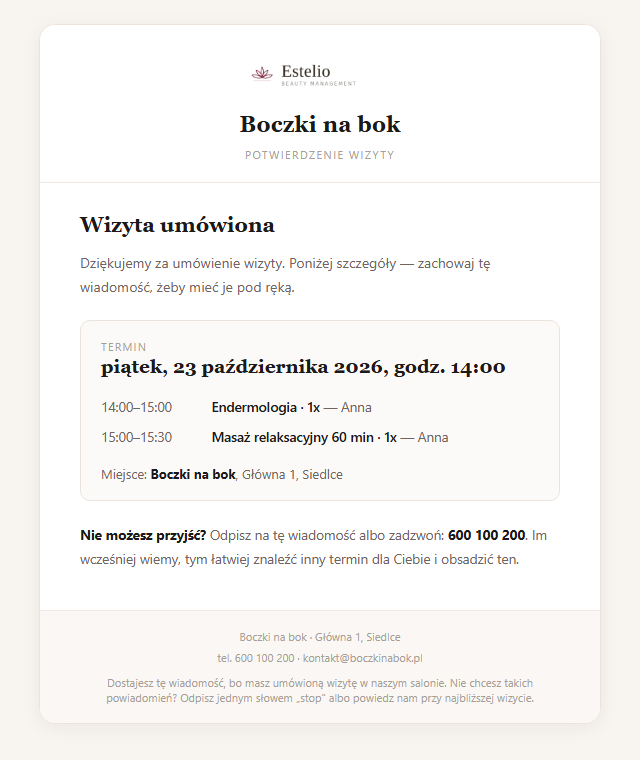
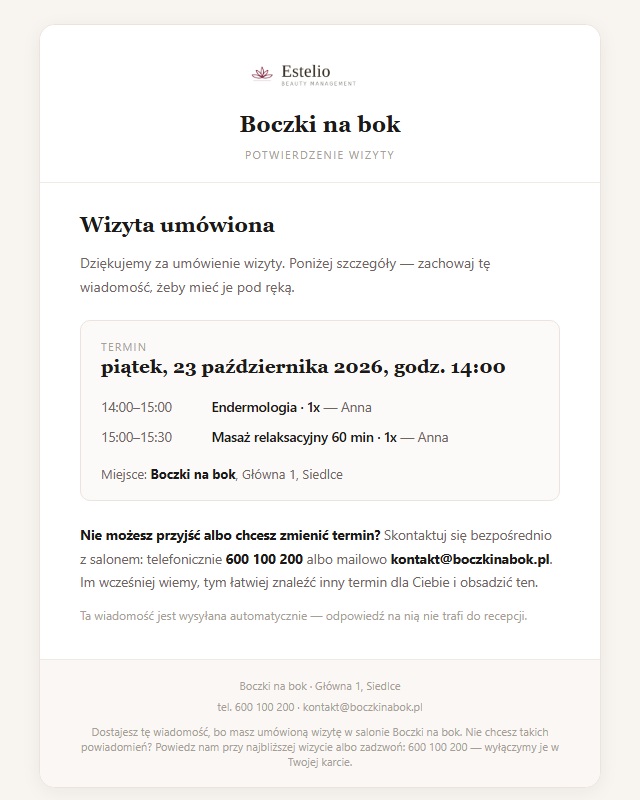
fix(maile): mail do klientki nie obiecuje juz rzeczy, ktorych nie umiemy dotrzymac
Wlasciciel zarezerwowal wizyte sam sobie i wychwycil dwa zdania:

1. „Nie mozesz przyjsc? Odpisz na te wiadomosc." — wiadomosc wychodzi z naszej
   skrzynki technicznej, wiec odpowiedz klientki trafia do kontakt@estelio.com.pl
   albo na adres wlasciciela z licencji, a NIE do recepcji, ktora ma zwolnic termin.
2. „Nie chcesz takich powiadomien? Odpisz jednym slowem »stop«." — nieprawda:
   nic w systemie nie czyta poczty przychodzacej, rezygnacje zaznacza salon
   w karcie klientki (Klienci.bez_maili).

Teraz: „Skontaktuj sie bezposrednio z salonem: telefonicznie … albo mailowo …"
(dane z Ustawienia → Profil salonu), jawne zdanie „ta wiadomosc jest wysylana
automatycznie — odpowiedz na nia nie trafi do recepcji", a w stopce rezygnacja
przez recepcje. Salon bez kontaktu w licencji = zadnej drogi nie wymyslamy.

Dwie proby pilnuja, zeby oba zdania nie wrocily. Zrzuty w przewodniku /pomoc-maile
odtworzone po zmianie. Pelny zestaw: 753/753.

diff --git a/routes/mailer.js b/routes/mailer.js
@@ -744,7 +744,8 @@ module.exports = { wyslijLinkRejestracji, powiadomAdmina, wyslijResetHasla, wysl
 // ale nadawcą i podpisem jest SALON, nie Estelio: klientka salonu nie zna naszej marki,
 // a wiadomość od nieznanego nadawcy ląduje w spamie albo w koszu.
 //   • nadawca:  „Boczki na bok" <kontakt@estelio.com.pl>   (nazwa salonu, adres techniczny nasz)
-//   • odpowiedz: adres salonu z licencji — żeby odpowiedź klientki trafiła tam, gdzie ktoś ją przeczyta
+//   • odpowiedz: adres salonu z licencji, a gdy go nie ma — nasza skrzynka kontaktowa (odpowiedź nie
+//     przepada, ale TRAFIA DO NAS, nie do recepcji; dlatego treść nigdy nie każe klientce odpisywać)
 //   • stopka:   nazwa, adres i telefon salonu + zdanie o rezygnacji
 const DNI_TYG = ['niedziela', 'poniedziałek', 'wtorek', 'środa', 'czwartek', 'piątek', 'sobota'];
 const MIESIACE_PL = ['stycznia', 'lutego', 'marca', 'kwietnia', 'maja', 'czerwca', 'lipca', 'sierpnia', 'września', 'października', 'listopada', 'grudnia'];
@@ -775,6 +776,15 @@ function zbudujMailWizyty({ salon, wizyta, typ }) {
     : `Dziękujemy za umówienie wizyty. Poniżej szczegóły — zachowaj tę wiadomość, żeby mieć je pod ręką.`;
 
   const kontakt = [s.telefon ? `tel. ${s.telefon}` : null, s.email ? s.email : null].filter(Boolean).join(' · ');
+  // 21.10.2026 — poprawka po uwadze właściciela. Wcześniej pisaliśmy „nie możesz przyjść? odpisz na tę
+  // wiadomość". To wprowadzało w błąd: wiadomość wychodzi z NASZEJ skrzynki technicznej, więc odpowiedź
+  // klientki ląduje w kontakt@estelio.com.pl (albo w skrzynce właściciela z licencji), a nie u recepcji,
+  // która za chwilę ma zwolnić termin. Podajemy więc wprost drogę do salonu i mówimy, że mail jest
+  // automatyczny. Gdy salon nie uzupełnił kontaktu w „Ustawienia → Profil salonu", nie obiecujemy nic.
+  const drogiKontaktu = [
+    s.telefon ? `telefonicznie <b style="color:#1c1a18;">${s.telefon}</b>` : null,
+    s.email ? `mailowo <b style="color:#1c1a18;">${s.email}</b>` : null,
+  ].filter(Boolean).join(' albo ');
 
   const tresc = `
       <h2 style="margin:0 0 14px; font-size:21px; color:#1c1a18; font-weight:600; font-family:Georgia,'Times New Roman',serif;">${naglowek}</h2>
@@ -790,15 +800,16 @@ function zbudujMailWizyty({ salon, wizyta, typ }) {
       </table>
 
       <p style="margin:0 0 6px; font-size:13.5px; color:#6f655e; line-height:1.75;">
-        <b style="color:#1c1a18;">Nie możesz przyjść?</b> Odpisz na tę wiadomość${s.telefon ? ` albo zadzwoń: <b style="color:#1c1a18;">${s.telefon}</b>` : ''}.
+        <b style="color:#1c1a18;">Nie możesz przyjść albo chcesz zmienić termin?</b> Skontaktuj się bezpośrednio z salonem${drogiKontaktu ? ': ' + drogiKontaktu : ''}.
         Im wcześniej wiemy, tym łatwiej znaleźć inny termin dla Ciebie i obsadzić ten.
-      </p>`;
+      </p>
+      <p style="margin:12px 0 0; font-size:12px; color:#a89e96; line-height:1.6;">Ta wiadomość jest wysyłana automatycznie — odpowiedź na nią nie trafi do recepcji.</p>`;
 
   const stopka = `
       <p style="font-size:11px; color:#a89e96; margin:0;">${nazwaSalonu}${s.adres ? ' · ' + s.adres : ''}</p>
       ${kontakt ? `<p style="font-size:11px; color:#a89e96; margin:6px 0 0;">${kontakt}</p>` : ''}
-      <p style="font-size:11px; color:#a89e96; margin:10px 0 0;">Dostajesz tę wiadomość, bo masz umówioną wizytę w naszym salonie.
-        Nie chcesz takich powiadomień? Odpisz jednym słowem „stop" albo powiedz nam przy najbliższej wizycie.</p>`;
+      <p style="font-size:11px; color:#a89e96; margin:10px 0 0;">Dostajesz tę wiadomość, bo masz umówioną wizytę w salonie ${nazwaSalonu}.
+        Nie chcesz takich powiadomień? Powiedz nam przy najbliższej wizycie${s.telefon ? ` albo zadzwoń: ${s.telefon}` : ''} — wyłączymy je w Twojej karcie.</p>`;
 
   return emailWrapperJasnySalon(nazwaSalonu, przypomnienie ? 'Przypomnienie o wizycie' : 'Potwierdzenie wizyty', tresc, stopka);
 }

diff --git a/tests/maile-wizyt.test.js b/tests/maile-wizyt.test.js
@@ -242,6 +242,31 @@ describe('treść wiadomości', () => {
     }
   });
 
+  // Dwie obietnice, których nie umiemy dotrzymać (uwaga właściciela 21.10.2026):
+  //  • „odpisz na tę wiadomość" — odpowiedź nie trafia do recepcji, tylko do nas albo do właściciela,
+  //  • „odpisz »stop«" — nikt nie czyta przychodzącej poczty, rezygnację zaznacza salon w karcie klientki.
+  // Tych zdań nie wolno przywrócić, dlatego mają własną próbę.
+  test('nie obiecuje, że odpowiedź na maila cokolwiek załatwi', () => {
+    for (const typ of ['potwierdzenie', 'przypomnienie']) {
+      const html = mailer.zbudujMailWizyty({ salon, wizyta, typ });
+      expect(html).not.toMatch(/Odpisz na tę wiadomość/i);
+      expect(html).not.toMatch(/odpisz[^<]{0,40}stop/i);
+      expect(html).toMatch(/wysyłana automatycznie/i);
+      expect(html).toMatch(/nie trafi do recepcji/i);
+    }
+  });
+
+  test('kieruje do salonu jego własnym kanałem', () => {
+    const html = mailer.zbudujMailWizyty({ salon, wizyta, typ: 'potwierdzenie' });
+    expect(html).toMatch(/Skontaktuj się bezpośrednio z salonem/);
+    expect(html).toContain('600100200');
+    expect(html).toContain('salon@example.pl');
+    // salon bez kontaktu w licencji: żadnej drogi nie wymyślamy, ale zdanie ma zostać sensowne
+    const bezKontaktu = mailer.zbudujMailWizyty({ salon: { nazwa: 'Salon' }, wizyta, typ: 'potwierdzenie' });
+    expect(bezKontaktu).toMatch(/Skontaktuj się bezpośrednio z salonem\./);
+    expect(bezKontaktu).not.toMatch(/telefonicznie|mailowo/);
+  });
+
   test('salon bez telefonu i adresu nie psuje układu', () => {
     const html = mailer.zbudujMailWizyty({ salon: { nazwa: 'Salon' }, wizyta, typ: 'potwierdzenie' });
     expect(html).toContain('Salon');

diff --git a/docs/maile-wizyt/README.md b/docs/maile-wizyt/README.md
@@ -36,7 +36,8 @@ Bez tego 70% wiadomości nie miałoby dokąd pójść, a literówka w adresie ni
 **2. Dwie wiadomości** (`routes/mailer.js`: `zbudujMailWizyty`, `wyslijMailWizyty`)
 - stylistyka serii wprowadzającej: jasne logo Estelio na górze, pod nim nazwa salonu, karta z terminem, szeryfowe tytuły,
 - **nadawcą jest salon**, nie Estelio: `„Boczki na bok" <kontakt@estelio.com.pl>`, a odpowiedź
-  (Reply-To) leci na adres salonu z licencji — klientka widzi swój salon i ma gdzie odpisać,
+  (Reply-To) leci na adres salonu z licencji; gdy salon go nie uzupełnił — na naszą skrzynkę kontaktową,
+- **treść nigdy nie każe klientce odpisywać** (poprawka 21.10.2026 — patrz na końcu),
 - stopka: nazwa, adres i telefon salonu + zdanie o rezygnacji,
 - temat: `Potwierdzenie wizyty — piątek, 23 października 2026, godz. 14:00`.
 
@@ -129,3 +130,38 @@ Strona jest podlinkowana w panelu admina (Pomoc i dokumenty → Dla salonu). Spr
 |---|---|
 | `przewodnik-krok1.png` | krok 1 przewodnika: znaczniki na polu e-mail, zgodzie i zapisie |
 | `przewodnik-krok2.png` | krok 2: pięć znaczników na ustawieniach powiadomień |
+
+---
+
+## Poprawka 21.10.2026 — dwie obietnice, których nie umieliśmy dotrzymać
+
+Właściciel zarezerwował wizytę sam sobie i przeczytał maila uważnie. Zgłosił dwie rzeczy:
+
+**1. „Nie możesz przyjść? Odpisz na tę wiadomość."** — mylące. Wiadomość wychodzi z naszej
+skrzynki technicznej (`kontakt@estelio.com.pl`), więc odpowiedź klientki trafia do nas albo —
+w najlepszym razie — na adres właściciela z licencji. Nie trafia do recepcji, która za chwilę
+ma zwolnić termin. Klientka, która odwołała wizytę „odpisując na maila", byłaby przekonana,
+że załatwiła sprawę — a salon o niczym by nie wiedział.
+
+**2. „Nie chcesz takich powiadomień? Odpisz jednym słowem »stop«."** — nieprawda.
+Nic w systemie nie czyta poczty przychodzącej (jedyny IMAP to `routes/booksy.js`, do zupełnie
+innego zadania). Rezygnację zaznacza salon w karcie klientki (`Klienci.bez_maili`).
+Obiecany kanał rezygnacji, który nie działa, jest gorszy niż brak takiego kanału.
+
+**Jak jest teraz:**
+
+| Było | Jest |
+|---|---|
+| „Nie możesz przyjść? Odpisz na tę wiadomość albo zadzwoń: 600 100 200." | „Nie możesz przyjść albo chcesz zmienić termin? Skontaktuj się bezpośrednio z salonem: telefonicznie **600 100 200** albo mailowo **kontakt@boczkinabok.pl**." |
+| — | „Ta wiadomość jest wysyłana automatycznie — odpowiedź na nią nie trafi do recepcji." |
+| „Odpisz jednym słowem »stop« albo powiedz nam przy najbliższej wizycie." | „Powiedz nam przy najbliższej wizycie albo zadzwoń: 600 100 200 — wyłączymy je w Twojej karcie." |
+
+Dane kontaktowe biorą się z **Ustawienia → Profil salonu** (tabela `Licencje`). Gdy salon ich
+nie uzupełnił, zdanie kończy się na „Skontaktuj się bezpośrednio z salonem." — nie wymyślamy
+drogi, której nie ma.
+
+Dwie próby w `tests/maile-wizyt.test.js` pilnują, żeby oba zdania nie wróciły:
+`nie obiecuje, że odpowiedź na maila cokolwiek załatwi` oraz `kieruje do salonu jego własnym kanałem`.
+
+Zrzuty `mail-potwierdzenie.png` i `mail-przypomnienie.png` (również te w przewodniku
+`/pomoc-maile`) odtworzone po zmianie — pokazują aktualną treść.
